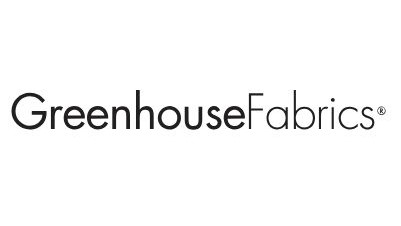
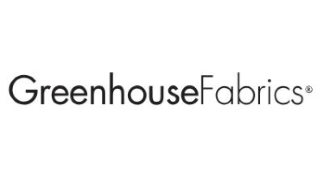
modified details of project imgs, removed punctuation and changed we to I in pillows. Resized link imgs for sales page

diff --git a/js/script.js b/js/script.js
@@ -183,45 +183,45 @@ $('.project_1').click(()=>{
 });
 $('.project_2').click(()=>{
     displayModal('.project_2');
-    $('.modal-footer').append("<p>Clutch purse made from mom's wedding gown.</p>");
+    $('.modal-footer').append("<p>Clutch purse made from mom's wedding gown</p>");
 });
 $('.project_3').click(()=>{
     displayModal('.project_3');
-    $('.modal-footer').append("<p>Clutch purse made from mom's wedding gown.</p>");
+    $('.modal-footer').append("<p>Clutch purse made from mom's wedding gown</p>");
 });
 $('.project_4').click(()=>{
     displayModal('.project_4');
 });
 $('.project_5').click(()=>{
     displayModal('.project_5');
-    $('.modal-footer').append("<p>Wrapped rope coasters.</p>");
+    $('.modal-footer').append("<p>Wrapped rope coasters</p>");
 });
 $('.project_6').click(()=>{
     displayModal('.project_6');
-    $('.modal-footer').append("<p>Use leftover pillow fabric to make placemats!</p>");
+    $('.modal-footer').append("<p>Use leftover pillow fabric to make placemats</p>");
 });
 $('.project_7').click(()=>{
     displayModal('.project_7');
-    $('.modal-footer').append("<p>Memory quilt for a brother lost too soon.</p>");
+    $('.modal-footer').append("<p>Memory quilt for a brother lost too soon</p>");
 });
 $('.project_8').click(()=>{
     displayModal('.project_8');
-    $('.modal-footer').append("<p>A granddaughter's first 18 years.</p>");
+    $('.modal-footer').append("<p>A granddaughter's first 18 years</p>");
 });
 $('.project_9').click(()=>{
     displayModal('.project_9');
-    $('.modal-footer').append("<p>Cute wall hanging.</p>");
+    $('.modal-footer').append("<p>Cute wall hanging</p>");
 });
 $('.project_10').click(()=>{
     displayModal('.project_10');
 });
 $('.project_11').click(()=>{
     displayModal('.project_11');
-    $('.modal-footer').append("<p>Silk shirt converted into pillow.</p>");
+    $('.modal-footer').append("<p>Silk shirt converted into pillow</p>");
 });
 $('.project_12').click(()=>{
     displayModal('.project_12');
-    $('.modal-footer').append("<p>Grandfather's shirt converted into pillow with favorite saying embroided on it.</p>");
+    $('.modal-footer').append("<p>Grandfather's shirt converted into pillow with favorite saying embroided on it</p>");
 });
 $('.project_13').click(()=>{
     displayModal('.project_13');
@@ -237,11 +237,11 @@ $('.project_15').click(()=>{
 });
 $('.project_16').click(()=>{
     displayModal('.project_16');
-    $('.modal-footer').append("<p>Dog/Cat collars.</p>");
+    $('.modal-footer').append("<p>Dog/Cat collars</p>");
 });
 $('.project_17').click(()=>{
     displayModal('.project_17');
-    $('.modal-footer').append("<p>Christmas ornaments.</p>");
+    $('.modal-footer').append("<p>Christmas ornaments</p>");
 });
 $('.embrdry_1').click(()=>{
     displayModal('.embrdry_1');

diff --git a/pillows.html b/pillows.html
@@ -4,7 +4,7 @@
     <meta charset="UTF-8">
     <meta http-equiv="X-UA-Compatible" content="IE=edge">
     <meta name="viewport" content="width=device-width, initial-scale=1.0">
-    <title>Just Sew - Cusions & Pillows</title>
+    <title>Just Sew - Cushions & Pillows</title>
     <link rel="stylesheet" href="https://cdn.jsdelivr.net/npm/bootstrap@4.6.1/dist/css/bootstrap.min.css" integrity="sha384-zCbKRCUGaJDkqS1kPbPd7TveP5iyJE0EjAuZQTgFLD2ylzuqKfdKlfG/eSrtxUkn" crossorigin="anonymous">
     <link rel="stylesheet" href="css/main.css">
 </head>
@@ -54,7 +54,7 @@
                 <p class="largerP">Pillows add warmth, a pop of color, and they can allow for a quick and 
                     easy change to your décor.  Knife edge, with cording or a flange, embellished, the 
                     possibilities are almost endless.  If you have a window seat or other loose cushions 
-                    that need updating, we can make new foam cushions as well as cushion covers. 
+                    that need updating, I can make new foam cushions as well as cushion covers. 
 
                 </p>
             </div>

diff --git a/sales.html b/sales.html
@@ -61,10 +61,10 @@
         </div>
         <div class="row">
             <div class="col-sm text-center">
-                <a href="https://www.greenhousefabrics.com/" target="_blank"><img src="/just_sew/img/greenhouse-fabrics.jpg" alt="Greenhouse Fabrics Logo" height="200px" class="mb-5"></a>
+                <a href="https://www.greenhousefabrics.com/" target="_blank"><img src="/just_sew/img/greenhouse-fabrics.jpg" alt="Greenhouse Fabrics Logo" class="mb-5"></a>
             </div>
             <div class="col-sm text-center">
-                <a href="https://www.charlottefabrics.com/" target="_blank"><img src="/just_sew/img/charlotte-fabrics-logo.jpg" alt="Charlotte Fabrics Logo" height="200px" class="mb-5"></a>
+                <a href="https://www.charlottefabrics.com/" target="_blank"><img src="/just_sew/img/charlotte-fabrics-logo.jpg" alt="Charlotte Fabrics Logo" class="mb-5"></a>
             </div>
         </div>
     </div>

diff --git a/projects.html b/projects.html
@@ -58,7 +58,7 @@
             <div class="col-sm">
                 <p class="largerP">Do you have a special project in mind, like a t-shirt quilt or a unique fabric bag?  
                     Contact me at Just Sew.  I would love to discuss your ideas with you and create your 
-                    vision. Check out the pictures below to see some of my favorite special projects!
+                    vision. Check out the pictures below to see some of my favorite special projects.
                 </p>
             </div>
         </div>
